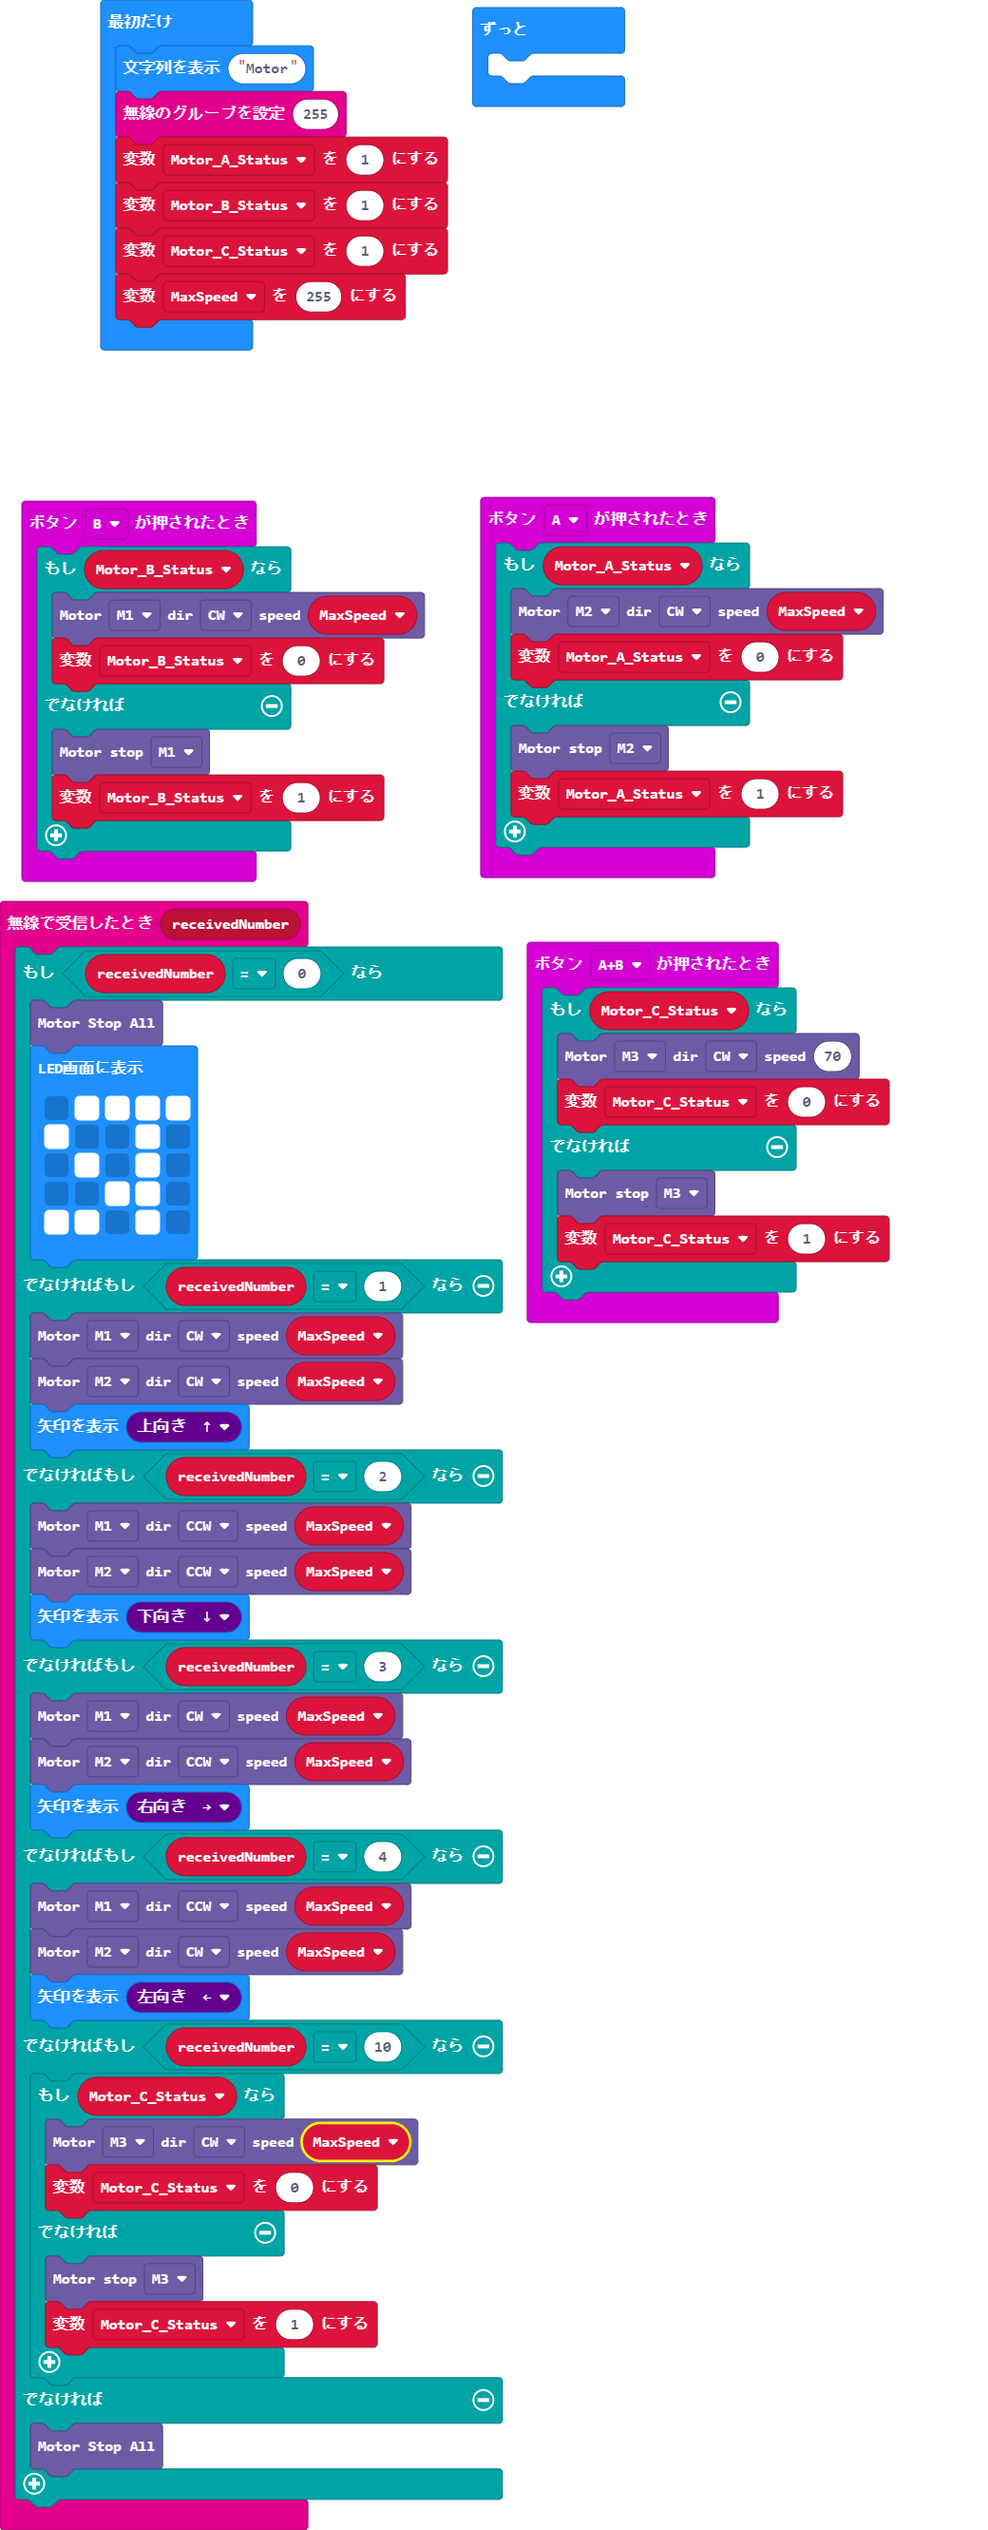
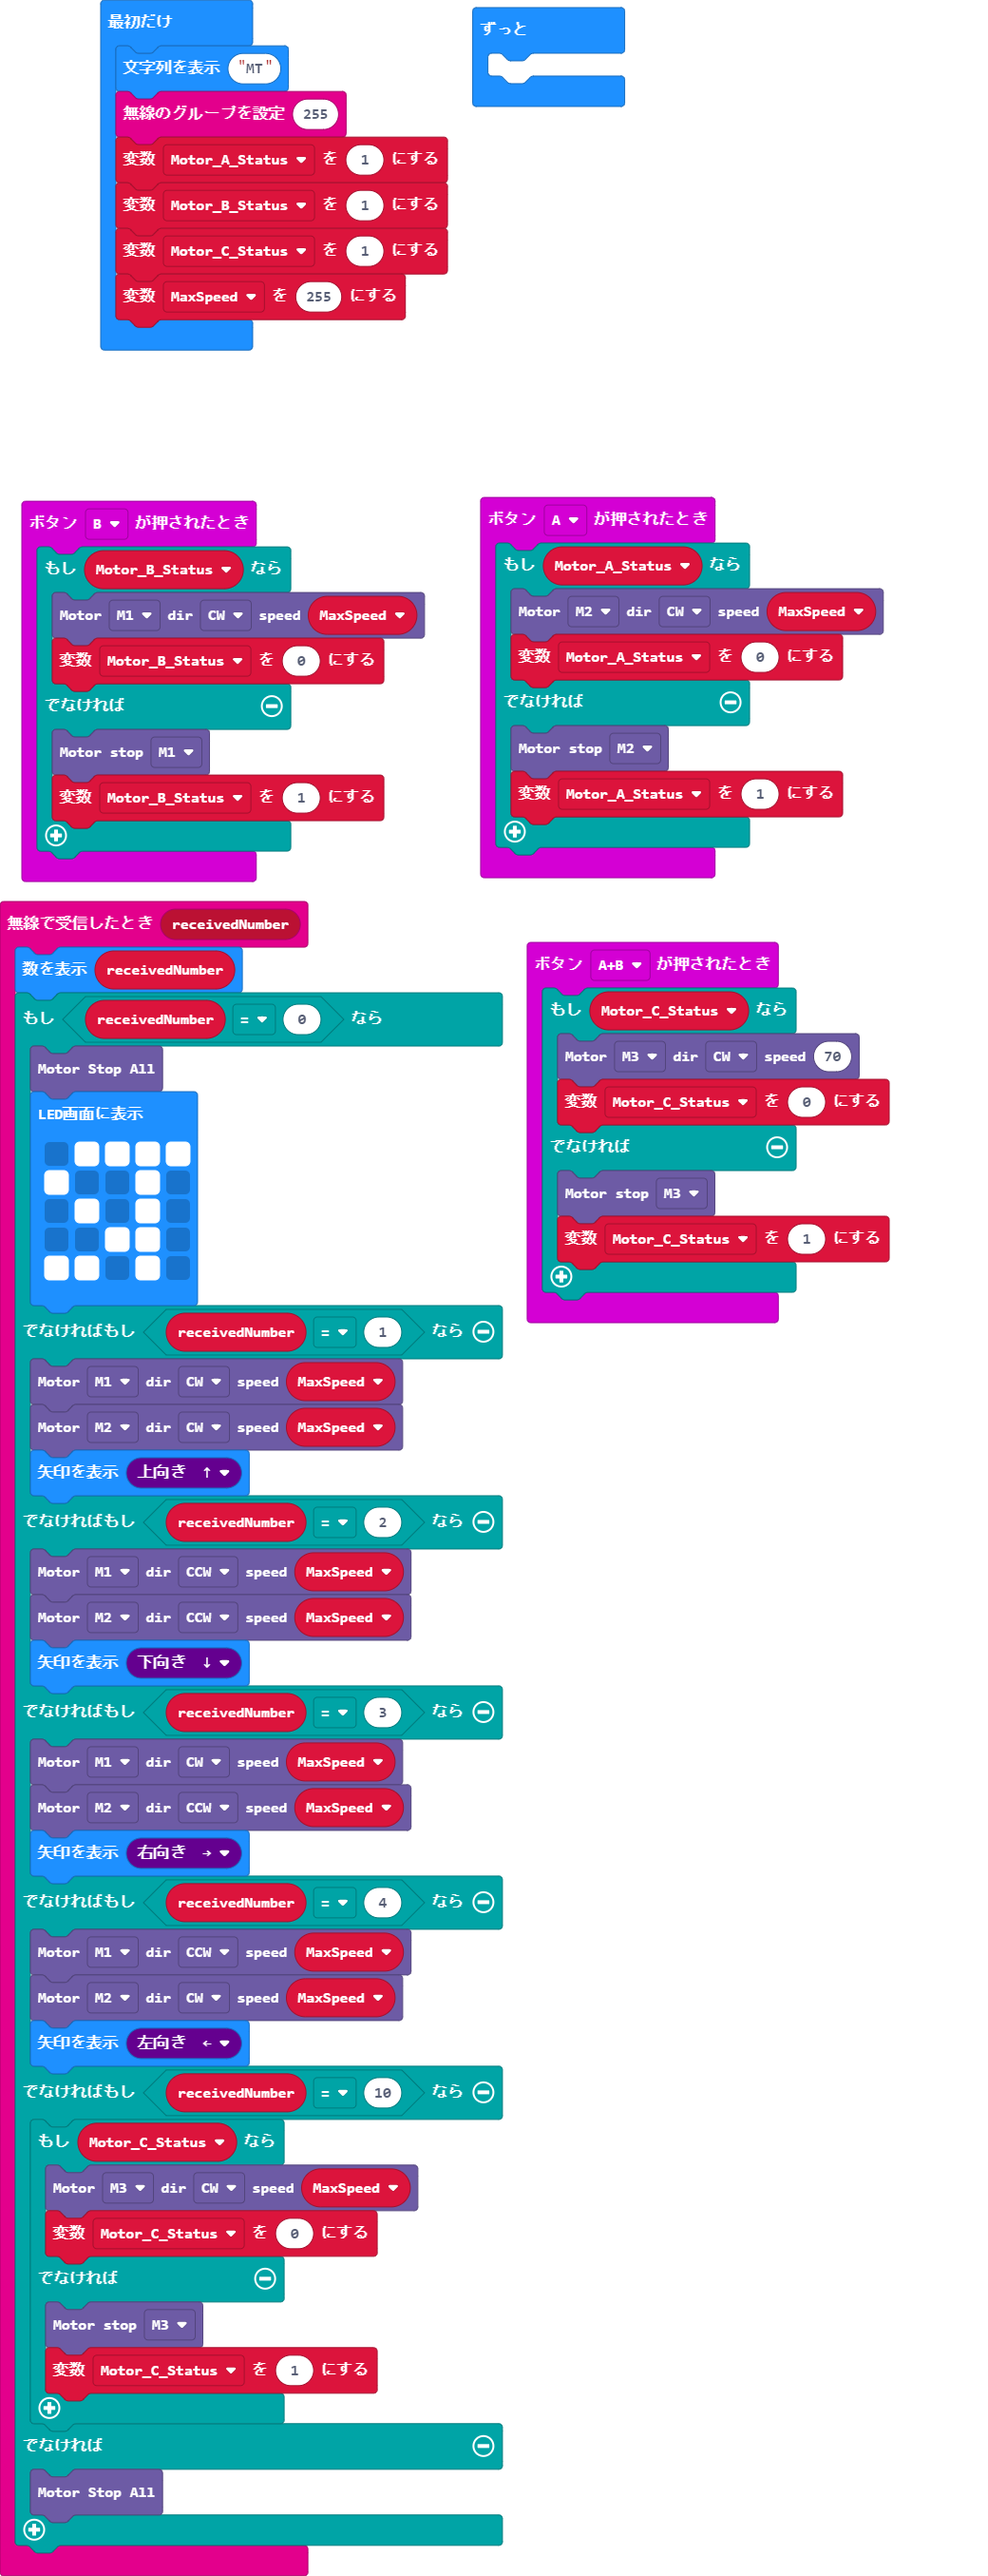
更新 main.blocks, main.ts

Changed region(s): [[0.0, 0.1871, 0.9231, 0.9981], [0.1231, 0.0, 0.4615, 0.156], [0.4615, 0.9357, 0.4923, 0.9669]]

diff --git a/main.ts b/main.ts
@@ -1,4 +1,5 @@
 radio.onReceivedNumber(function (receivedNumber) {
+    basic.showNumber(receivedNumber)
     if (receivedNumber == 0) {
         motor.motorStopAll()
         basic.showLeds(`
@@ -67,7 +68,7 @@ let MaxSpeed = 0
 let Motor_C_Status = 0
 let Motor_B_Status = 0
 let Motor_A_Status = 0
-basic.showString("Motor")
+basic.showString("MT")
 radio.setGroup(255)
 Motor_A_Status = 1
 Motor_B_Status = 1
